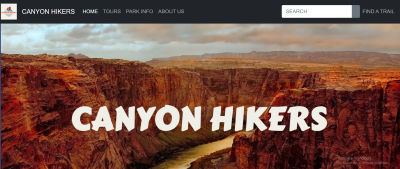
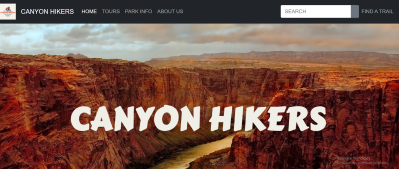
fixed slideshow

diff --git a/Portfolio Website/portfolio_website.css b/Portfolio Website/portfolio_website.css
@@ -20,7 +20,7 @@ body.fade-out {             /*fade effect when page is loaded*/
 
 #home img {                 /*background image*/
     width: 100%;
-    height: auto;
+    height: 550px;
     position: relative;
 }
 
@@ -162,6 +162,7 @@ footer {
     height: 100vh;
     padding-top: 2vh;                   /*adds padding around video-text container so bg goes slightly beyond the text*/           
     position: absolute;                 /*allows us to use the animation below*/
+    top: 3vw;
     -webkit-animation: moveVideoText 2s;
     animation: moveVideoText 2s;
 }
@@ -171,9 +172,9 @@ footer {
     to {top: 0vw;}                      /*moves the video text to normal positioning on the viewport*/
 }
 
-/*-----------------------------
-     END OF VIDEO STYLING
------------------------------*/
+/*---------------------------------------
+     END OF BACKGROUND IMAGE STYLING
+---------------------------------------*/
 
 /*-----------------------------
       SLIDESHOW STYLING

diff --git a/Portfolio Website/index.html b/Portfolio Website/index.html
@@ -97,8 +97,8 @@
 
             <!--SLIDE 3 OF 6-->
             <div class="mySlides fade">
-                <img class="slideshow_images" src="./images/flower_ecommerce.png" alt="Python logo">
-                <div class="text">E-commerce prototype using Adobe XD</div>
+                <img class="slideshow_images" src="./images/fluid_layout.png" alt="Python logo">
+                <div class="text">Fluid layout prototype using Adobe XD</div>
             </div>
 
             <!--SLIDE 4 OF 6-->

diff --git a/Portfolio Website/js/portfolio.js b/Portfolio Website/js/portfolio.js
@@ -28,6 +28,7 @@ function showSlides(n) {
     var dots = document.getElementsByClassName("dot");
     //if n > length of array "slides", the slideIndex is set to 1
     if (n > slides.length) { slideIndex = 1 };
+    if (n  < 1) {slideIndex = slides.length}
     //if n < 1, the slideIndex is set to the length of the array "slides"
     for (i = 0; i < slides.length; i++) {
         //this for loop takes each item in the array "slides" and sets the display to none
